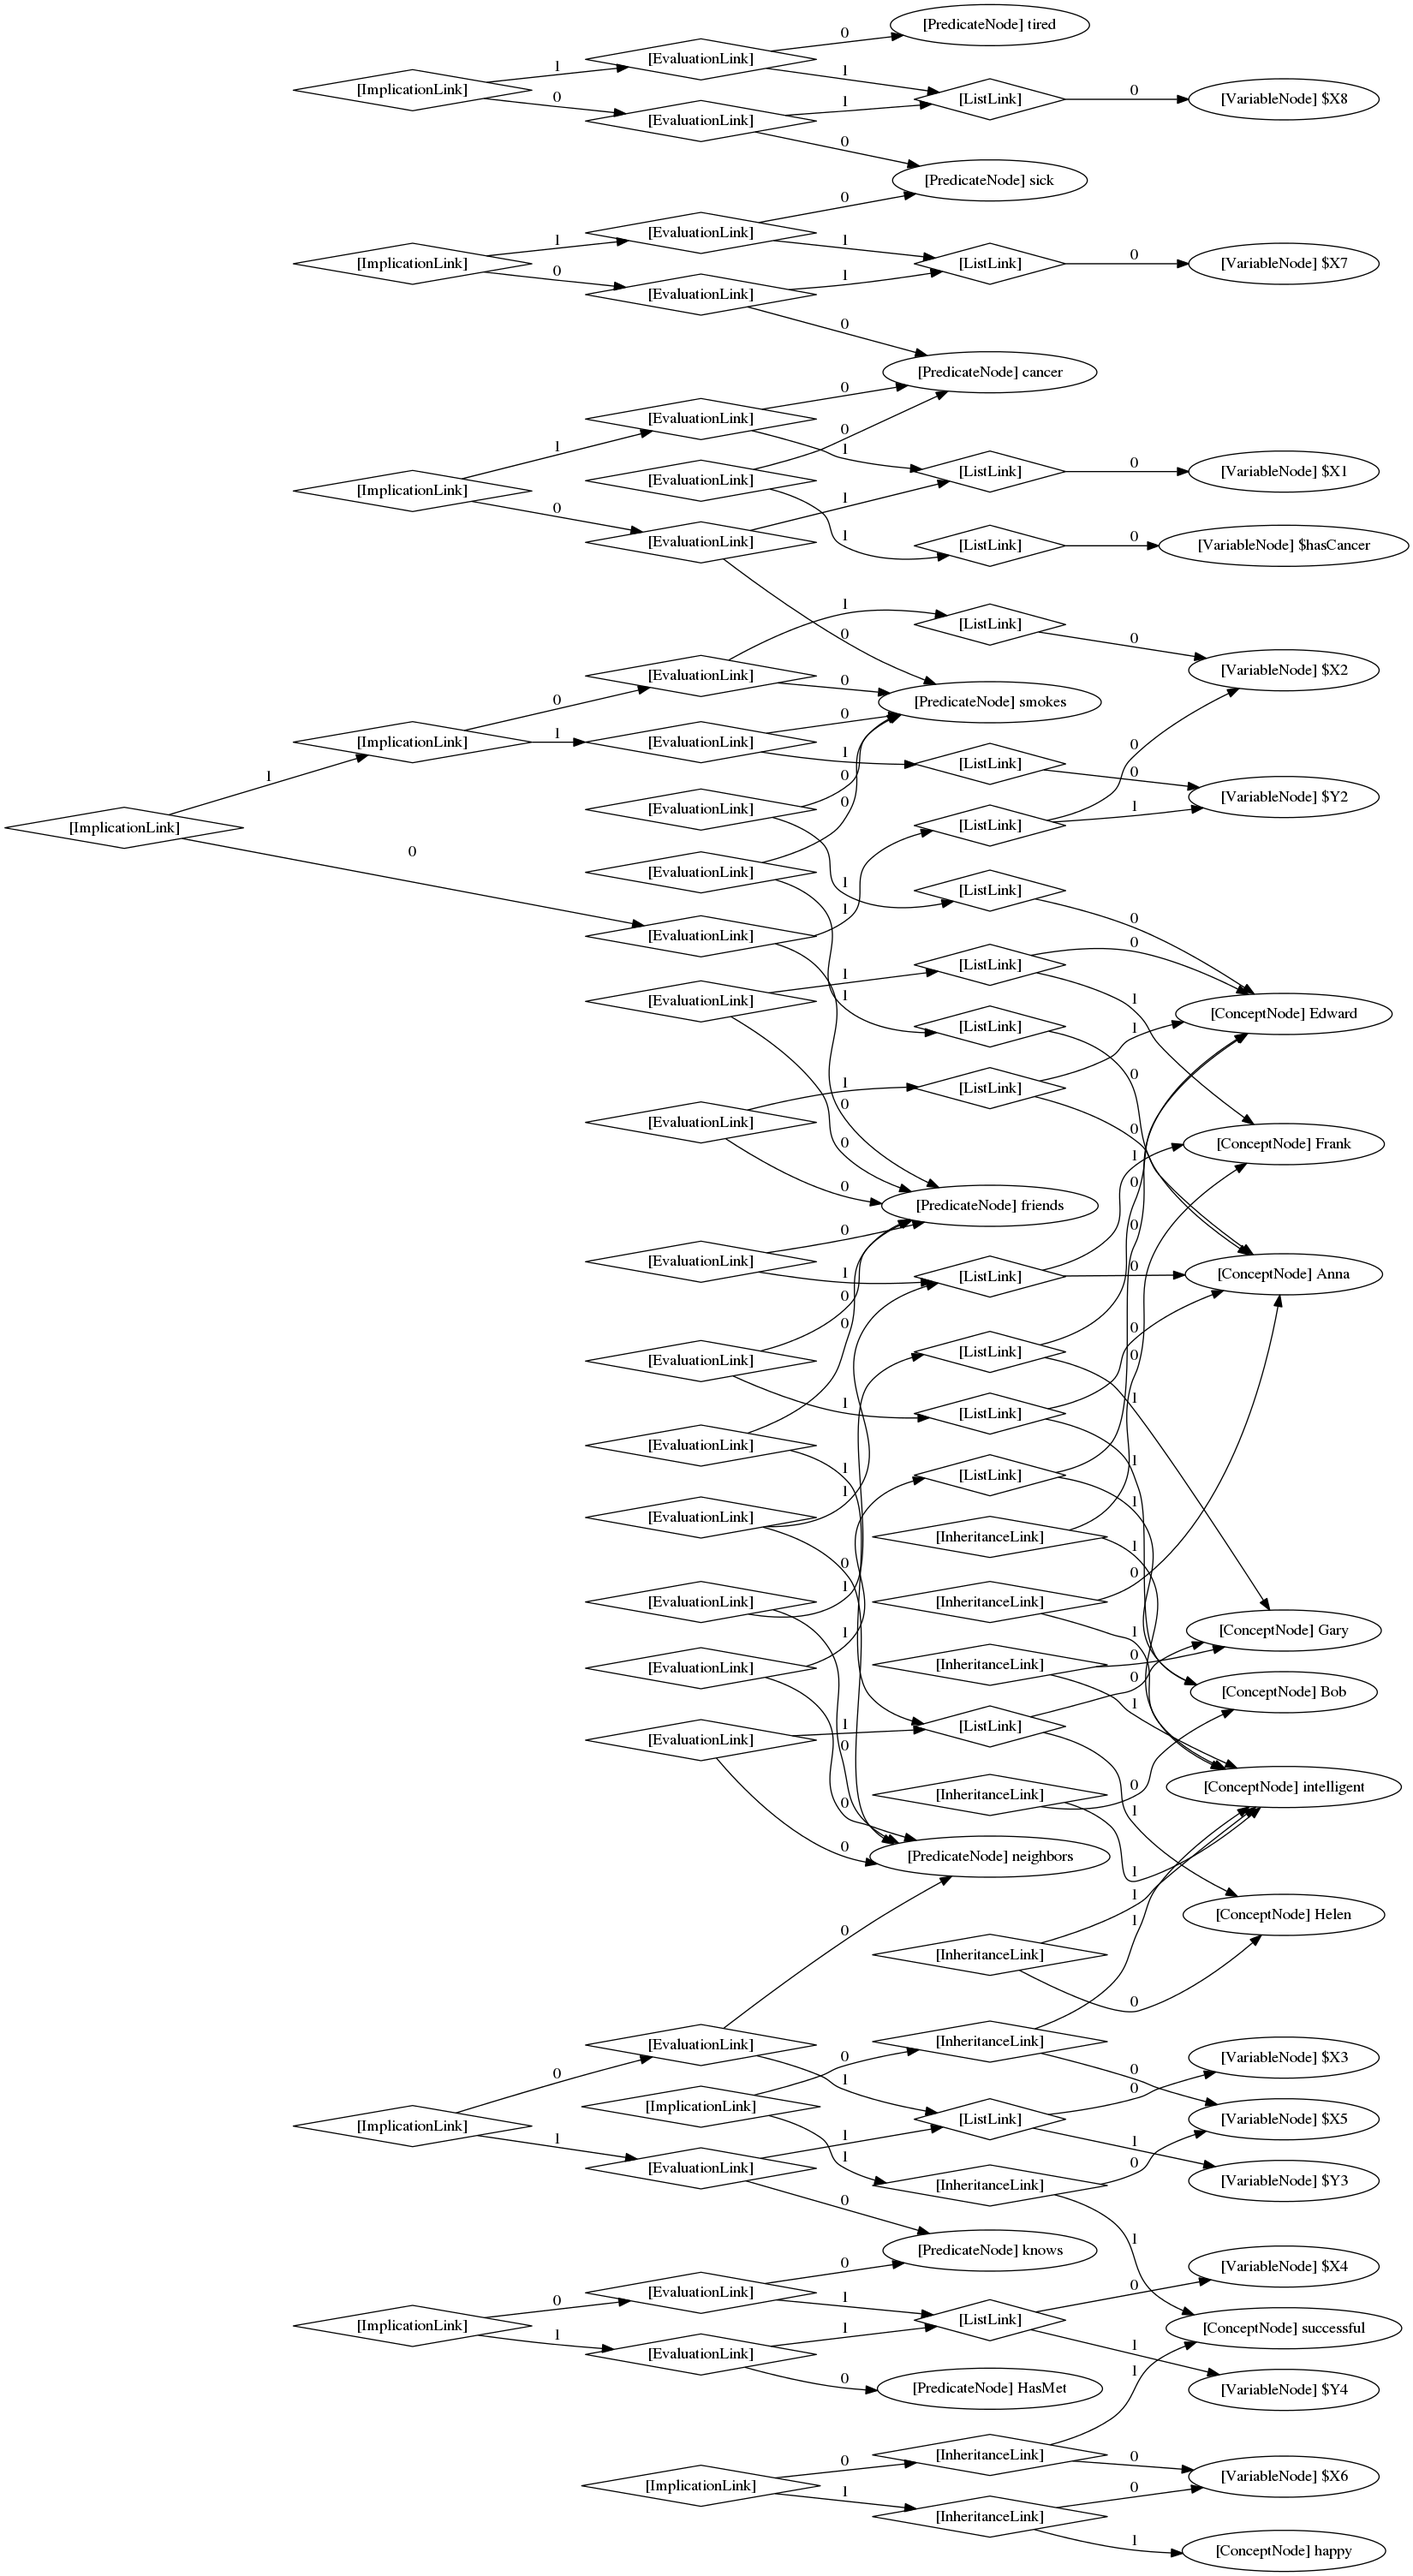
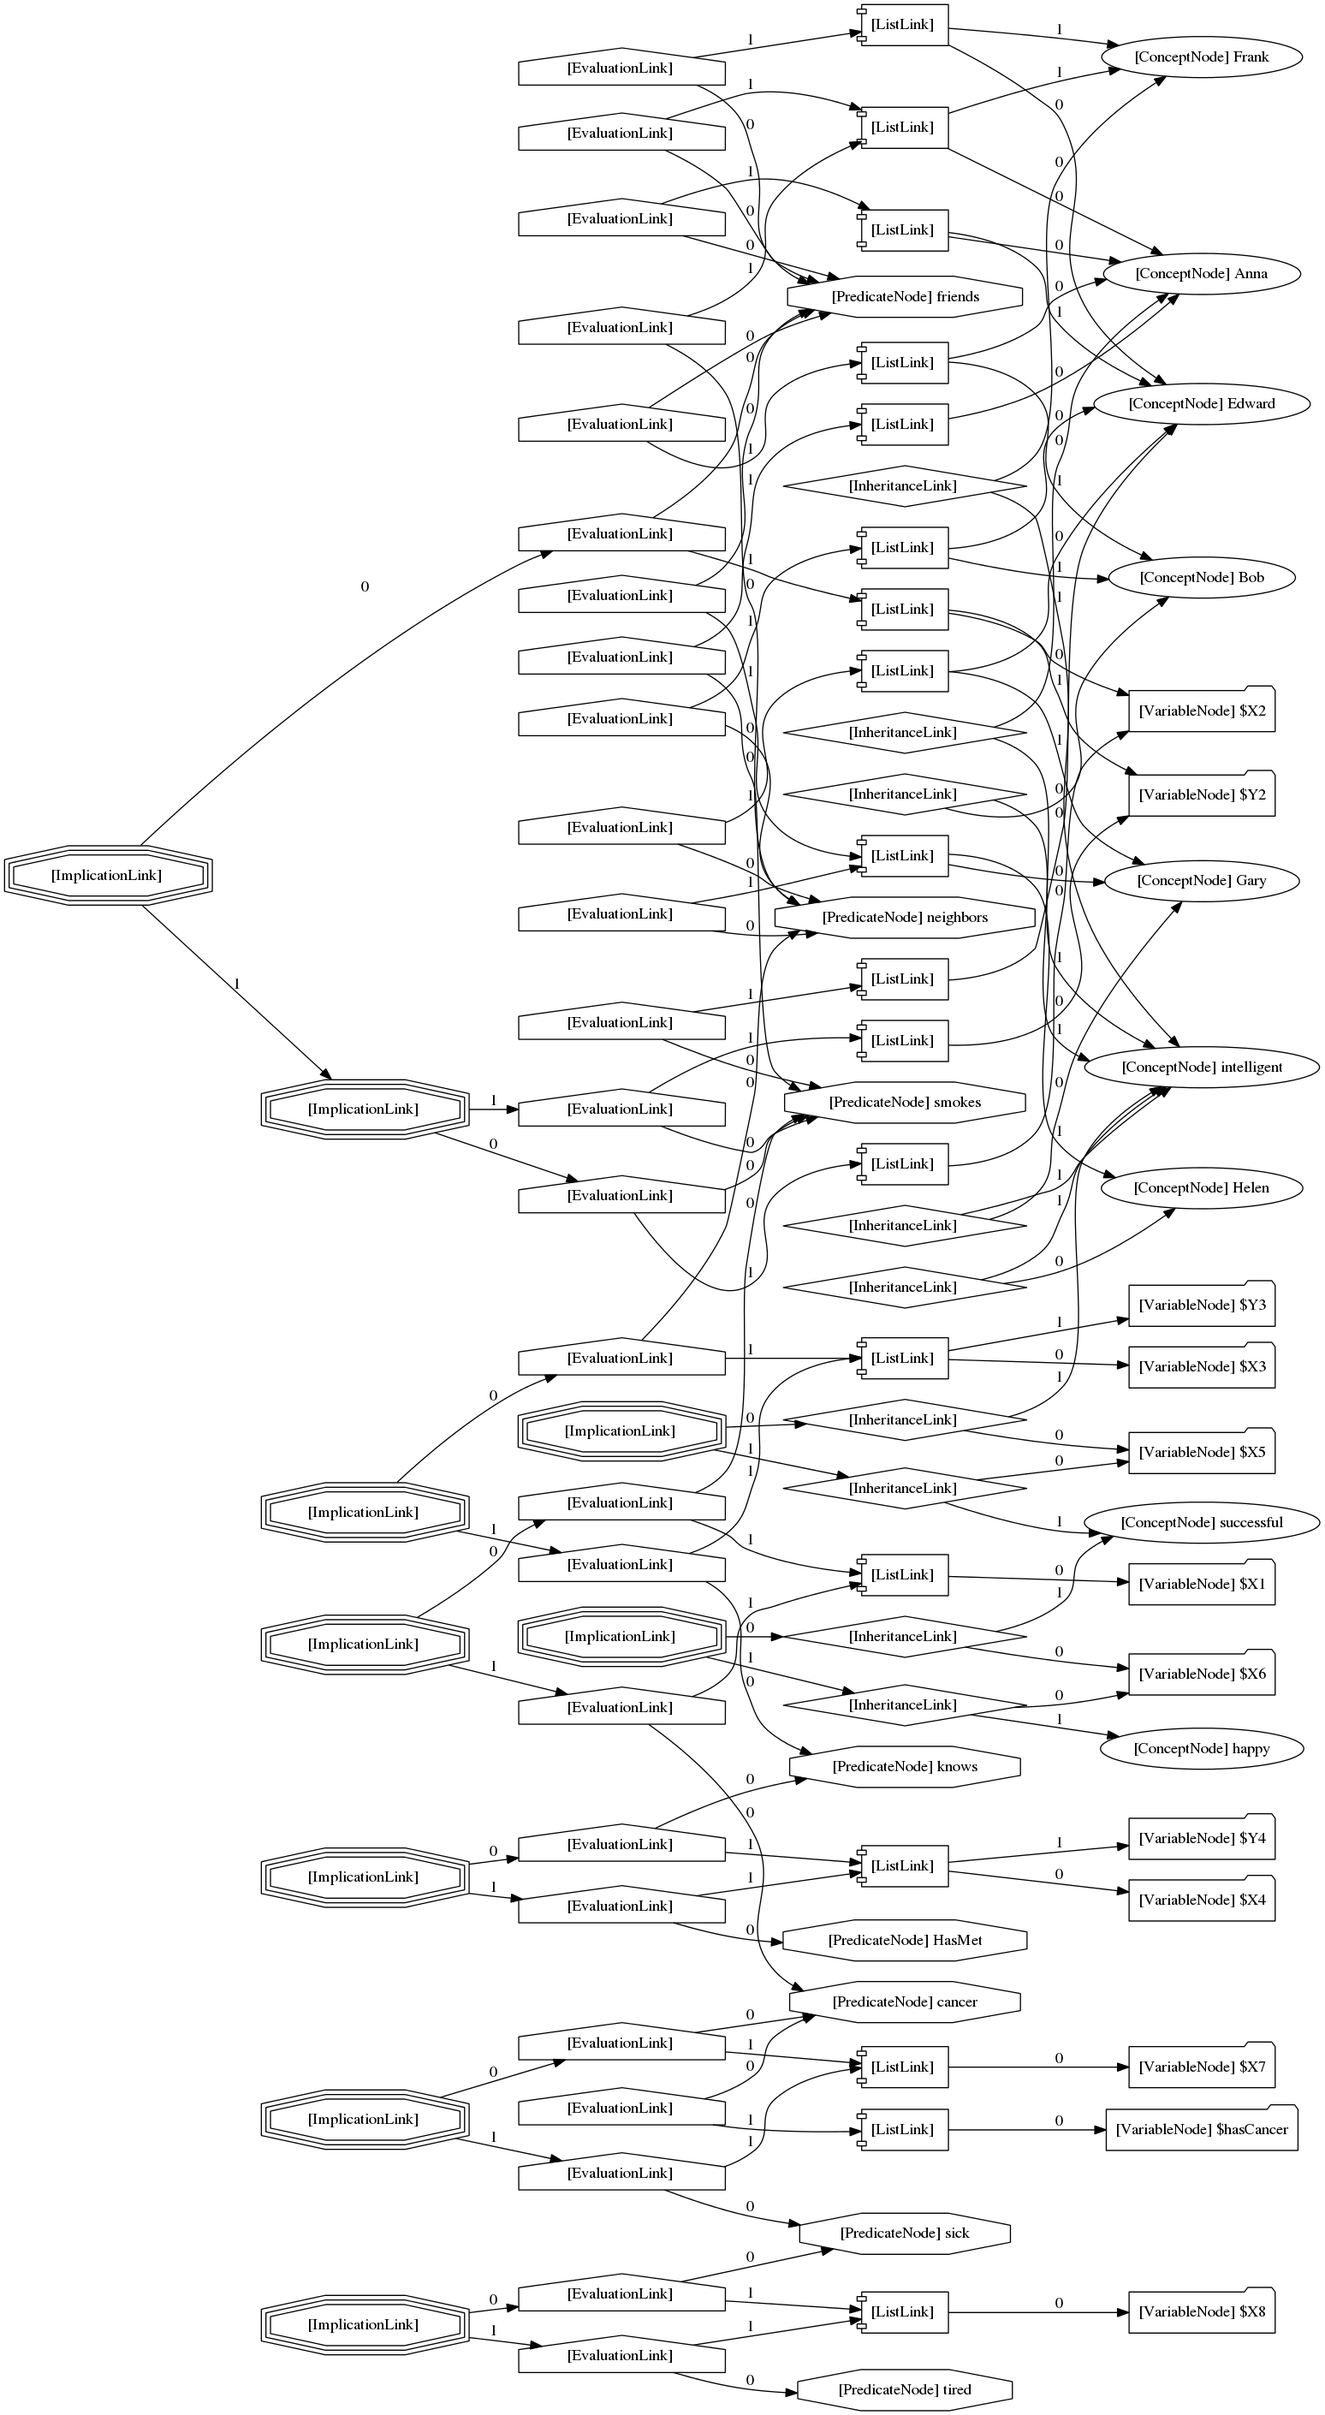
Add formatted version of smokes with extra data, and update raw version

diff --git a/smokes-extra/README.md b/smokes-extra/README.md
@@ -6,5 +6,8 @@ For visualizations of the basic data without the extra data, see the examples in
 
 ## Examples
 
+### Create duplicate copies of ConceptNodes and PredicateNodes
+![conceptnode-predicatenode](png/duplicate-conceptnode-predicatenode-shapes.png)
+
 ### Raw version without any duplicate copies
 ![raw](png/raw.png)
